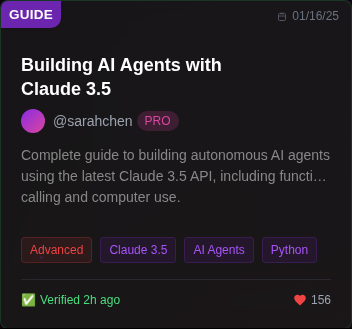
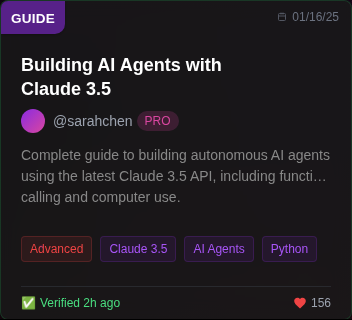
Improve guide card layout and spacing consistency
- Fixed vertical centering for GUIDE label, bottom stats, and calendar icon
- Removed fixed min-height to allow cards to flex based on content
- Implemented consistent 12px spacing between all content elements
- Bottom stats section now stays pinned to card bottom with proper alignment
- Calendar icon properly aligned with date text baseline
- Reduced GUIDE label purple background opacity by 25%
- Fixed Advanced badge text centering and container sizing
- Cards now properly expand/shrink while maintaining grid alignment

Layout improvements:
- Equal padding above/below bottom stats section
- Date positioning matches bottom padding (8px symmetry)
- Badges flow naturally after description without forced gaps
- All cards in a row maintain equal height via CSS Grid

🤖 Generated with [Claude Code](https://claude.ai/code)

diff --git a/prototype/pages/guides.html b/prototype/pages/guides.html
@@ -422,7 +422,7 @@
                             </div>
                             
                             <!-- Stats -->
-                            <div class="flex items-center justify-between pt-3 border-t border-vybe-gray-800/50">
+                            <div class="flex items-center justify-between pt-3 border-t border-vybe-gray-800/50 mt-auto">
                                 <div class="flex items-center gap-1 text-yellow-500 text-xs">
                                     <span class="text-xs">⚠</span>
                                     <span>May be outdated</span>
@@ -477,7 +477,7 @@
                             </div>
                             
                             <!-- Stats -->
-                            <div class="flex items-center justify-between pt-3 border-t border-vybe-gray-800/50">
+                            <div class="flex items-center justify-between pt-3 border-t border-vybe-gray-800/50 mt-auto">
                                 <div class="flex items-center gap-1 text-red-500 text-xs">
                                     <span class="text-xs">❌</span>
                                     <span>Likely outdated</span>
@@ -534,7 +534,7 @@
                             </div>
                             
                             <!-- Stats with lock icon -->
-                            <div class="flex items-center justify-between pt-3 border-t border-vybe-gray-800/50">
+                            <div class="flex items-center justify-between pt-3 border-t border-vybe-gray-800/50 mt-auto">
                                 <div class="flex items-center gap-1 text-amber-500 text-xs">
                                     <svg class="w-3.5 h-3.5" fill="currentColor" viewBox="0 0 24 24">
                                         <path d="M12 2C9.243 2 7 4.243 7 7v3H6c-1.103 0-2 .897-2 2v8c0 1.103.897 2 2 2h12c1.103 0 2-.897 2-2v-8c0-1.103-.897-2-2-2h-1V7c0-2.757-2.243-5-5-5zM9 7c0-1.654 1.346-3 3-3s3 1.346 3 3v3H9V7zm4 10.723V20h-2v-2.277a1.993 1.993 0 01-.567-3.677A1.99 1.99 0 0112 14a1.99 1.99 0 011.567.046 1.993 1.993 0 01-.567 3.677z"/>
@@ -593,7 +593,7 @@
                             </div>
                             
                             <!-- Stats with purchased status -->
-                            <div class="flex items-center justify-between pt-3 border-t border-vybe-gray-800/50">
+                            <div class="flex items-center justify-between pt-3 border-t border-vybe-gray-800/50 mt-auto">
                                 <div class="flex items-center gap-1 text-green-500 text-xs">
                                     <svg class="w-3.5 h-3.5" fill="currentColor" viewBox="0 0 24 24">
                                         <path d="M9 16.17L4.83 12l-1.42 1.41L9 19 21 7l-1.41-1.41z"/>
@@ -1581,7 +1581,7 @@ class RateLimiter {
                                     </div>
                                     
                                     <!-- Stats -->
-                                    <div class="flex items-center justify-between pt-3 border-t border-vybe-gray-800/50">
+                                    <div class="flex items-center justify-between pt-3 border-t border-vybe-gray-800/50 mt-auto">
                                         <div class="flex items-center gap-1 text-green-400 text-xs" id="guide-preview-pricing">
                                             <span class="text-xs">✅</span>
                                             <span>Free Guide</span>

diff --git a/prototype/css/vertical-centering-fix.css b/prototype/css/vertical-centering-fix.css
@@ -1,0 +1,39 @@
+/* Vertical Centering Fixes */
+
+/* Fix bottom stats section vertical centering */
+.minimal-card .flex.items-center.justify-between.pt-3.border-t {
+  margin-top: 0.5rem !important; /* 8px - move the border line down more */
+  padding-top: 0.5rem !important; /* 8px - equal to card bottom padding */
+  padding-bottom: 0 !important; /* No bottom padding - card provides the 8px */
+  display: flex !important;
+  align-items: center !important;
+  margin-bottom: 0 !important;
+}
+
+/* Adjust card padding to match top (8px) */
+.minimal-card {
+  padding: 1.25rem !important; /* Keep default padding */
+  padding-bottom: 0.5rem !important; /* Override bottom to 8px to match top */
+}
+
+/* Ensure the p-5 class doesn't override our bottom padding */
+.minimal-card.p-5 {
+  padding-bottom: 0.5rem !important; /* 8px to match date from top */
+}
+
+/* Ensure verified text and likes are vertically centered */
+.minimal-card .flex.items-center.justify-between.pt-3.border-t > div {
+  display: flex !important;
+  align-items: center !important;
+}
+
+/* Fix GUIDE label vertical centering */
+.minimal-card::before {
+  padding: 0.5rem 0.625rem !important;
+  padding-top: 0.6875rem !important; /* Add 3px total (0.1875rem) to push text down */
+  display: flex !important;
+  align-items: center !important;
+  justify-content: center !important;
+  line-height: 1 !important;
+  height: auto !important;
+}

diff --git a/prototype/css/guides-flex-fix.css b/prototype/css/guides-flex-fix.css
@@ -1,0 +1,43 @@
+/* Fix card flexbox layout for proper content flow */
+
+/* Ensure main content area grows to fill available space */
+.minimal-card > *:not(.mt-auto) {
+  flex-grow: 0; /* Don't grow, just take natural height */
+  flex-shrink: 0; /* Don't shrink */
+}
+
+/* Stats section should not grow but stick to bottom */
+.minimal-card .flex.items-center.justify-between.pt-3.border-t.mt-auto {
+  flex-grow: 0;
+  flex-shrink: 0;
+}
+
+/* Remove any forced heights from content elements */
+.minimal-card h3,
+.minimal-card p,
+.minimal-card .flex.flex-wrap.gap-2 {
+  height: auto !important;
+}
+
+/* Reset all margins first */
+.minimal-card > * {
+  margin: 0 !important;
+}
+
+/* Apply consistent spacing between all elements */
+.minimal-card > * + * {
+  margin-top: 0.75rem !important; /* 12px - consistent spacing */
+}
+
+/* Special case: Author section should have less space before title */
+.minimal-card .flex.items-center.gap-2 + h3 {
+  margin-top: 0.5rem !important; /* 8px between author and title */
+}
+
+/* Remove any bottom margins that might interfere */
+.minimal-card h3,
+.minimal-card p,
+.minimal-card .flex.items-center.gap-2,
+.minimal-card .flex.flex-wrap.gap-2 {
+  margin-bottom: 0 !important;
+}

diff --git a/prototype/css/guides-showcase-match.css b/prototype/css/guides-showcase-match.css
@@ -7,7 +7,7 @@
   gap: 1.5rem !important;
   max-width: 1200px !important;
   margin: 0 auto !important;
-  align-items: stretch !important;
+  align-items: stretch !important; /* All cards same height in each row */
 }
 
 /* Update minimal-card to match showcase specialized cards */
@@ -23,9 +23,10 @@
   z-index: 10 !important;
   cursor: pointer !important;
   overflow: hidden !important;
-  min-height: 320px !important;
-  display: flex !important;
+  min-height: 0 !important; /* Allow cards to shrink based on content */
+  display: flex !important; /* Flex to push stats to bottom */
   flex-direction: column !important;
+  height: 100% !important; /* Take full height of grid cell */
 }
 
 /* Remove any default padding from card classes */
@@ -57,7 +58,7 @@
   left: 0;
   padding: 0.375rem 0.5rem;
   padding-top: 0.438rem; /* Added 1px to move text down */
-  background: rgba(138, 43, 226, 0.75);
+  background: rgba(138, 43, 226, 0.5625); /* Reduced opacity by 25% from 0.75 */
   color: rgba(255, 255, 255, 1);
   font-size: 0.844rem;
   font-weight: 600;

diff --git a/prototype/css/guides-date-corner.css b/prototype/css/guides-date-corner.css
@@ -11,8 +11,8 @@
   top: 0.5rem !important;
   right: 0.75rem !important;
   display: flex !important;
-  align-items: center !important;
-  gap: 0.25rem !important; /* Reduced gap */
+  align-items: baseline !important; /* Changed to baseline for better text alignment */
+  gap: 0.25rem !important;
   z-index: 20 !important;
   margin: 0 !important;
   border: none !important;
@@ -39,10 +39,14 @@
   stroke: currentColor !important;
   opacity: 0.7 !important;
   flex-shrink: 0 !important;
-  display: inline-block !important;
+  display: inline-flex !important;
+  align-items: center !important;
+  justify-content: center !important;
   margin: 0 !important;
   padding: 0 !important;
-  vertical-align: middle !important;
+  vertical-align: baseline !important;
+  position: relative !important;
+  top: 0.0625rem !important; /* Micro-adjust 1px down to align with text baseline */
 }
 
 /* Date text styling */

diff --git a/prototype/index.html b/prototype/index.html
@@ -91,6 +91,9 @@
     <link rel="stylesheet" href="css/layers.css">
     <link rel="stylesheet" href="css/styles.css?v=2">
     <link rel="stylesheet" href="css/badge-component.css">
+    <link rel="stylesheet" href="css/vertical-centering-fix.css">
+    <link rel="stylesheet" href="css/guides-spacing-fix.css">
+    <link rel="stylesheet" href="css/guides-flex-fix.css">
     <style>
         /* Logo animation with dual letters */
         .logo-pulse {

diff --git a/prototype/js/guides-css-loader.js b/prototype/js/guides-css-loader.js
@@ -4,7 +4,10 @@
         'css/guides-showcase-match.css',
         'css/guides-date-corner.css',
         'css/guides-container-fix.css',
-        'css/badge-component.css'
+        'css/badge-component.css',
+        'css/vertical-centering-fix.css',
+        'css/guides-spacing-fix.css',
+        'css/guides-flex-fix.css'
     ];
     
     cssFiles.forEach(file => {

diff --git a/prototype/css/guides-spacing-fix.css b/prototype/css/guides-spacing-fix.css
@@ -1,0 +1,1 @@
+/* Spacing now handled by guides-flex-fix.css */
